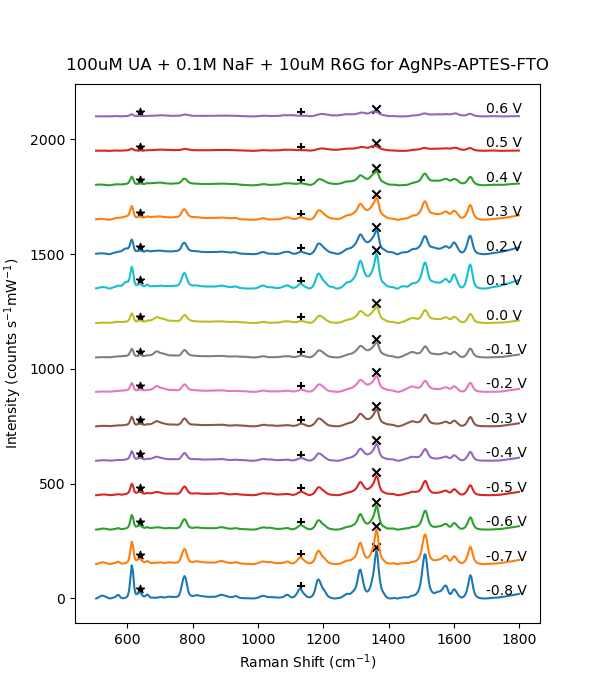
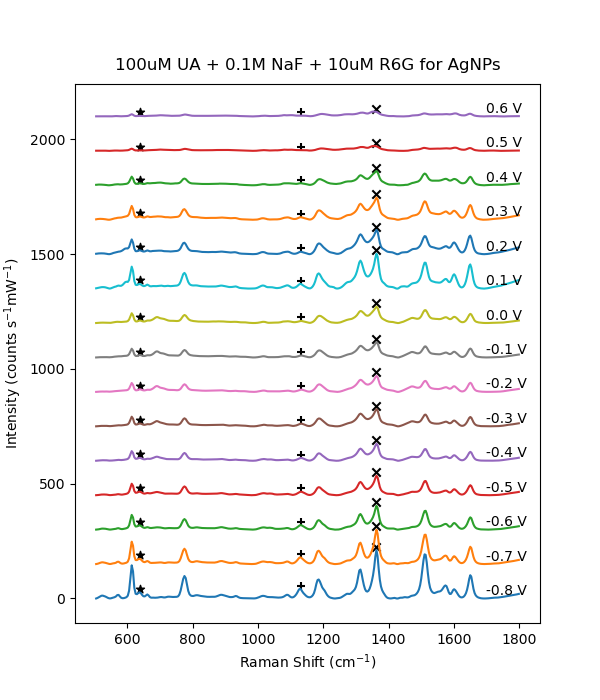
mod

Changed region(s): [[0.12, 0.06, 0.87, 0.12], [0.87, 0.06, 0.9, 0.09]]

diff --git a/E_SERS_UA_CRN_MSc_Thesis/DataProcessing/UA_100uM_detection.py b/E_SERS_UA_CRN_MSc_Thesis/DataProcessing/UA_100uM_detection.py
@@ -20,7 +20,7 @@ for i, col in df_plot.iteritems():
     ax.scatter(col.index[228], col.values[228]+15+150*count, marker='x', color='black')
     count += 1
 
-ax.set_title('100uM UA + 0.1M NaF + 10uM R6G for AgNPs-APTES-FTO', pad=10)
+ax.set_title('100uM UA + 0.1M NaF + 10uM R6G for AgNPs', pad=10)
 ax.set_xlabel('Raman Shift ($\mathregular{cm^{-1}}$)')
 ax.set_ylabel('Intensity (counts $\mathregular{s^{-1}mW^{-1}}$)')
 
@@ -43,7 +43,7 @@ for i, col in df_plot.iloc[:, :-1].iteritems():
     ax.scatter(col.index[228], col.values[228]+3+25*count, marker='x', color='black')
     count += 1
 
-ax.set_title('100uM UA + 0.1M NaF + 10uM R6G for Au@AgNPs-APTES-FTO', pad=10)
+ax.set_title('100uM UA + 0.1M NaF + 10uM R6G for Au@AgNPs', pad=10)
 ax.set_xlabel('Raman Shift ($\mathregular{cm^{-1}}$)')
 ax.set_ylabel('Intensity (counts $\mathregular{s^{-1}mW^{-1}}$)')
 
